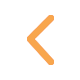
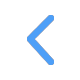
Flip color scheme

Changed region(s): [[0.325, 0.175, 0.675, 0.825]]

diff --git a/js/pages/Product/AddToCart/index.js b/js/pages/Product/AddToCart/index.js
@@ -35,31 +35,6 @@ class AddToCart extends Component {
     })
   }
 
-  selectOptions(product) {
-    ActionSheetIOS.showActionSheetWithOptions({
-      options: OPTIONS,
-      cancelButtonIndex: CANCEL_INDEX,
-      destructiveButtonIndex: DELETE_INDEX,
-    },
-    (buttonIndex) => {
-      switch(buttonIndex) {
-        case DUPLICATE_INDEX:
-          this.props.duplicateItem(product)
-          break
-        case DELETE_INDEX:
-          this.props.deleteItem(product)
-          break
-        case EDIT_INDEX:
-          this.props.setActiveItem(product)
-          this.props.navigation.navigate('EditItem')
-          break
-      }
-    })
-  }
-
-  focusNextField(nextField) {
-    this.refs[nextField].focus()
-  }
   render() {
     const { user, product, quantity, addToCart, saveToCart, isLoading, navigation } = this.props
     if(!product) {
@@ -74,13 +49,11 @@ class AddToCart extends Component {
           left={<Header.BackButton text='Back' to={() => navigation.goBack(null)} />}
           center={<Header.Logo />}
           right={<Header.TextButton text='Save' isLoading={isLoading} onPress={() => isLoading ? null : saveToCart()} />} />
-          <ItemView item={product.item} onOptionsBtnPress={() => this.selectOptions(product.item)} />
-          <View style={styles.unitPriceContainer}>
-            <Text style={styles.unitPrice}>${product.unitPrice} per {product.unit}</Text>
-          </View>
-          <AddToCartForm onSubmit={values => addToCart({...product, ...values})} />
+          <ItemView product={product} />
+          <AddToCartForm product={product} onSubmit={values => addToCart({...product, ...values})} />
           <View style={styles.totalPriceContainer}>
-            <Text style={styles.totalPriceLabel}>Total: </Text><Text style={styles.totalPrice}>${quantity * product.unitPrice || 0}</Text>
+            <Text style={styles.totalPriceLabel}>Total: </Text>
+            <Text style={styles.totalPrice}>${quantity * product.unitPrice || 0}</Text>
           </View>
       </View>
     )

diff --git a/js/pages/Product/AddToCart/ItemView/index.js b/js/pages/Product/AddToCart/ItemView/index.js
@@ -4,6 +4,7 @@ import {
   TouchableOpacity,
   Image,
 } from 'react-native'
+import { path } from 'ramda'
 import IonIcon from 'react-native-vector-icons/Ionicons'
 
 import Text from 'components/BitKitText'
@@ -11,14 +12,19 @@ import { Images } from 'themes'
 
 import styles from './Styles'
 
-const ItemView = ({ item }) =>
+const itemImage = path(['item', 'image'])
+const itemName = path(['item', 'name'])
+const itemDesc = path(['item', 'description'])
+
+const ItemView = ({ product }) =>
   <View style={styles.listRow}>
     <View style={styles.itemRow}>
       <View style={styles.info}>
-        <Image source={item.image ? { uri: item.image } : Images.itemPlaceholder} style={styles.image} resizeMode='cover' />
+        <Image source={itemImage(product) ? { uri: itemImage(product) } : Images.itemPlaceholder} style={styles.image} resizeMode='cover' />
         <View style={styles.infoText}>
-          <Text numberOfLines={1} style={styles.name}>{item.name}</Text>
-          <Text numberOfLines={1} style={styles.details}>{item.description}</Text>
+          <Text numberOfLines={1} style={styles.name}>{itemName(product)}</Text>
+          <Text numberOfLines={1} style={styles.details}>{itemDesc(product)}</Text>
+          <Text numberOfLines={1} style={styles.unitPrice}>${product.unitPrice} per {product.unit}</Text>
         </View>
       </View>
     </View>

diff --git a/js/pages/Product/AddToCart/Styles.js b/js/pages/Product/AddToCart/Styles.js
@@ -24,13 +24,12 @@ export default StyleSheet.create({
   },
   totalPriceLabel: {
     fontSize: 24,
+    color: 'white',
   },
   totalPrice: {
     fontSize: 24,
+    color: 'white',
     fontWeight: 'bold',
-  },
-  addImage: {
-    flexGrow: 1
   },
   inputGroup: {
     backgroundColor: 'white',
@@ -51,14 +50,6 @@ export default StyleSheet.create({
     width: 78,
     height: 78,
     alignSelf: 'center',
-  },
-  forgot: {
-    position: 'absolute',
-    right: 0,
-    bottom: 0,
-    paddingBottom: 20,
-    paddingHorizontal: 20,
-    color: Colors.teal,
   },
   centered: {
     alignItems: 'center'

diff --git a/js/pages/Product/AddToCart/ItemView/Styles.js b/js/pages/Product/AddToCart/ItemView/Styles.js
@@ -3,6 +3,7 @@ import { Colors } from 'themes'
 
 export default StyleSheet.create({
   listRow: {
+    flex: 1,
     height: 80,
     margin: 10,
     borderWidth: 1,
@@ -15,6 +16,7 @@ export default StyleSheet.create({
     flexGrow: 1,
     flexDirection: 'row',
     justifyContent: 'space-between',
+    alignItems: 'center',
   },
   productRow: {
     flexGrow: 1,
@@ -41,6 +43,10 @@ export default StyleSheet.create({
     padding: 5,
   },
   details: {
+    fontSize: 14,
+    padding: 5,
+  },
+  unitPrice: {
     fontSize: 14,
     padding: 5,
   },

diff --git a/js/redux/reducers/withdraw.js b/js/redux/reducers/withdraw.js
@@ -48,8 +48,12 @@ export default (state = initialState, action) => {
           isLoading: action.payload.bankId
         }
       }
+    case 'FETCH_BALANCE':
+      return {...state, balance: { ...state.balance, isLoading: true } }
     case 'FETCH_BALANCE_SUCCESS':
       return {...state, balance: { BTC: action.payload.BTC, LTC: action.payload.LTC, isLoading: false } }
+    case 'FETCH_BALANCE_FAILURE':
+      return {...state, balance: { ...state.balance, isLoading: false } }
     case 'LOGOUT':
       return initialState
     default:

diff --git a/js/pages/Product/AddToCart/Form.js b/js/pages/Product/AddToCart/Form.js
@@ -42,9 +42,9 @@ const UnitPicker = ({ name, defaultValue, label }) =>
       labelStyle={{fontSize: 12, color: '#ccc'}} />
   </View>
 
-const AddToCartForm = ({ handleSubmit, submitting, quantity }) =>
+const AddToCartForm = ({ handleSubmit, submitting, quantity, product }) =>
   <View onSubmit={handleSubmit} style={styles.createForm}>
-    <CreateProductField name='quantity' label='Quantity' />
+    <CreateProductField name='quantity' label='Quantity' suffix={`× $${product.unitPrice}`} />
   </View>
 
 export default reduxForm({

diff --git a/js/pages/Account/Withdraw/Balance/index.js b/js/pages/Account/Withdraw/Balance/index.js
@@ -10,6 +10,7 @@ import { connect } from 'react-redux'
 import { fetchBalance } from 'actions/withdraw'
 
 import Text from 'components/BitKitText'
+import Loader from 'components/Loader'
 
 import styles from './Styles'
 
@@ -21,7 +22,7 @@ class Balance extends Component {
   render() {
     const { isLoading, balanceBTC, balanceLTC, } = this.props
     if(isLoading) {
-      return <Loader />
+      return <Loader style={styles.balanceLoader} />
     }
     return (
       <View style={styles.container}>

diff --git a/js/themes/Colors.js b/js/themes/Colors.js
@@ -1,6 +1,6 @@
 const colors = {
   background: '#FEFEFE',
-  header: '#4d9ff8',
+  header: '#F8A64D',
   headerLT: '#F7F7F8',
   buttonBackground: '#F7F7F8',
   clear: 'rgba(0,0,0,0)',
@@ -24,10 +24,12 @@ const colors = {
   eggplant: '#251a34',
   border: '#483F53',
   banner: '#5F3E63',
-  orange: '#F8A64D',
+  // orange: '#F8A64D',
+  orange: '#3D7FC6',
+  blue: '#3D7FC6',
+  // blue: '#3D7FC6',
   teal: '#257A91',
   lightGrey: '#999',
-  blue: '#3D7FC6',
   red: '#B33A3A',
   text: '#414142'
 }

diff --git a/js/pages/Home/Products/index.js b/js/pages/Home/Products/index.js
@@ -45,7 +45,7 @@ class Products extends Component {
           right={<Header.CartButton to={() => navigation.navigate('CheckoutScreen')}/>} />
         <View style={styles.section}>
           <View style={styles.centered}>
-            <SearchBar onSearch={console.log} onCancel={console.log} searchTerm={'abc'} />
+            <Text style={styles.subtitle}>Select a product to add to cart</Text>
           </View>
         </View>
         <ProductsList navigation={navigation} />

diff --git a/js/pages/Home/Items/index.js b/js/pages/Home/Items/index.js
@@ -43,6 +43,7 @@ class Items extends Component {
           right={<Header.CartButton to={() => navigation.navigate('CheckoutScreen')}/>} />
         <View style={styles.section}>
           <View style={styles.centered}>
+            <Text style={styles.subtitle}>Select an item to create a product</Text>
             <SearchBar onSearch={keyword => searchItems(keyword, user)} onCancel={clearSearchItems} searchTerm={keyword} />
           </View>
         </View>

diff --git a/js/components/TextField/affix/index.js b/js/components/TextField/affix/index.js
@@ -73,11 +73,13 @@ export default class Affix extends PureComponent {
       case 'prefix':
         containerStyle.paddingRight = 8
         textStyle.textAlign = 'left'
+        textStyle.fontFamily = 'Agenda'
         break
 
       case 'suffix':
         containerStyle.paddingLeft = 8
         textStyle.textAlign = 'right'
+        textStyle.fontFamily = 'Agenda'
         break
     }
 

diff --git a/js/pages/Checkout/History/List/ListRow/Styles.js b/js/pages/Checkout/History/List/ListRow/Styles.js
@@ -19,6 +19,7 @@ export default StyleSheet.create({
     alignItems: 'center',
   },
   textContainer: {
+    flex: 1,
     flexDirection: 'row',
   },
   infoText: {
@@ -82,7 +83,8 @@ export default StyleSheet.create({
     fontWeight: 'bold'
   },
   chevronContainer: {
-    paddingHorizontal: 10
+    flex: 0.05,
+    marginRight: 10
   },
   chevronRight: {
     fontSize: 20,
